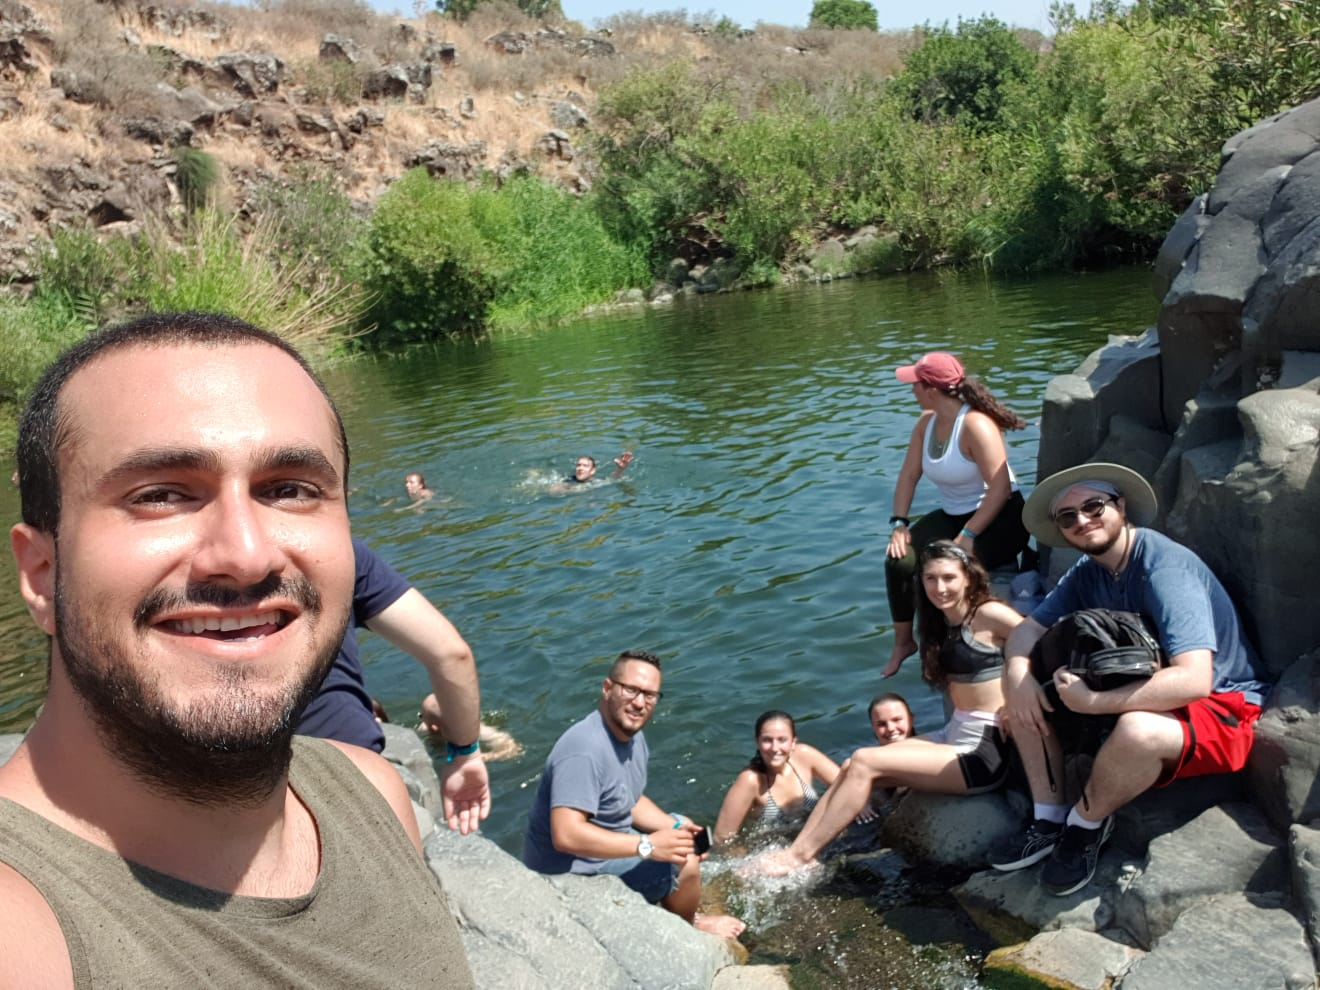
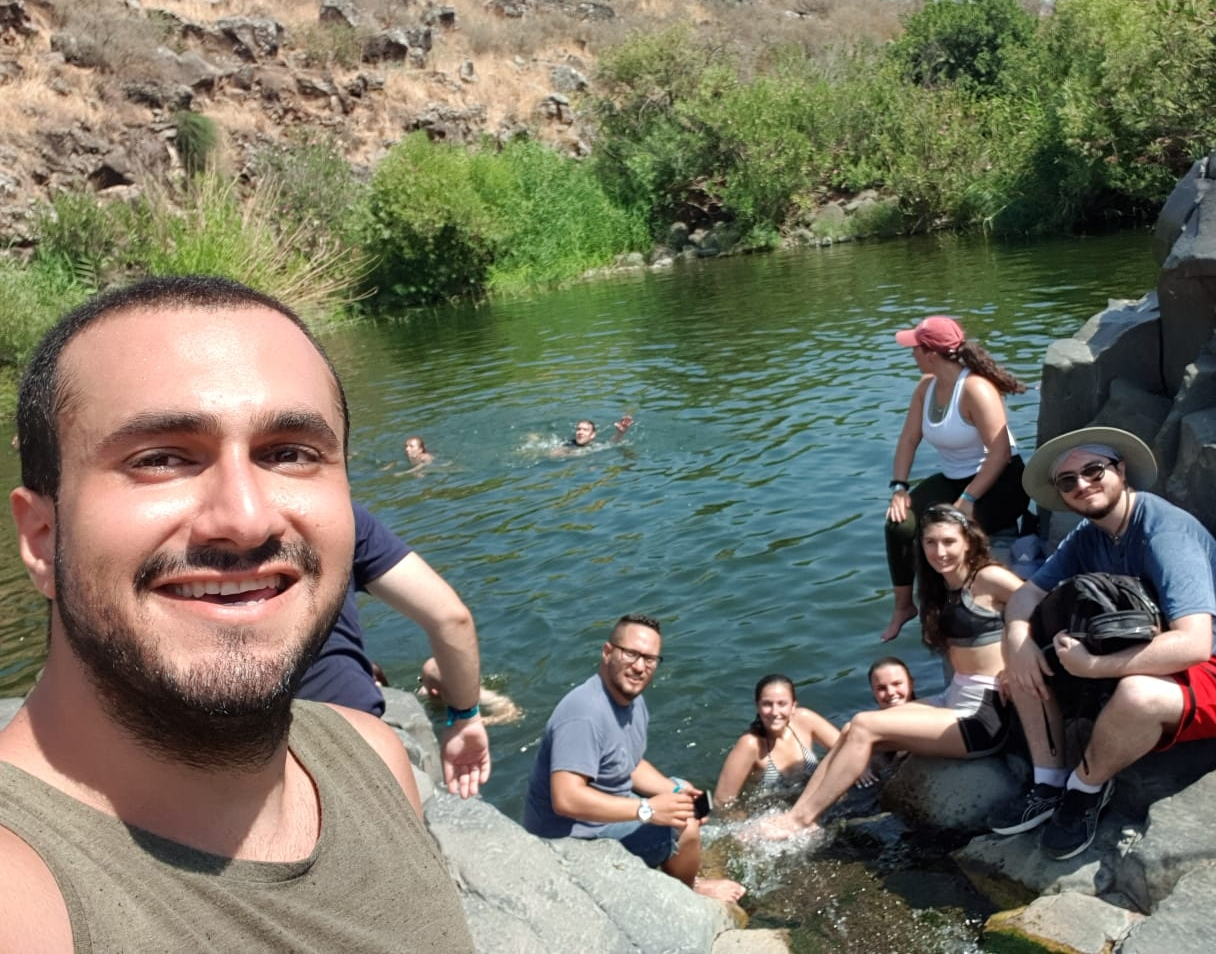
Second update of the Birthright trip

diff --git a/content/thoughts/20190817.html b/content/thoughts/20190817.html
@@ -66,10 +66,14 @@
             recollection of the trip and its highlights.
         </p>
 
+        <p style="text-align:center;">
+            <img class="center" src="20190817/taglit.jpg">
+        </p>
+
         <h2>Day 1 - Afik Kibbutz Orchan and Shehecheyanu Ceremony</h2>
 
         <p>
-            <img class="photo" src="20190817/itamar_bouton.jpg" align="left" width="20%">
+            <img class="photo" src="20190817/itamar_bouton.jpg" align="left" style="width: 15%">
             We were greeted at the airport by our Israeli participants and our Israeli guide,
             <a href="http://boutontour.com/">Itamar Bouton</a>, who would prove himself to
             be a capable, humorous leader over the course of the trip. He gave three
@@ -83,7 +87,7 @@
             Wikipedia mentions that the kibbutz is considered an illegal settlement under
             international law. I was unable to learn when the kibbutz was established, but the
             <a href="https://www.jewishvirtuallibrary.org/history-and-overview-of-the-golan-heights">Jewish Virtual Library</a>
-            suggests that kibbutzim predated Israeli control of the Golan Heights, although no
+            suggests that kibbutzim in the Golan Heights predate Israeli control, although no
             kibbutz was in Afik prior to Israel capturing the Golan Heights during the Six Day War.
         </p>
 
@@ -97,13 +101,20 @@
             at all. There must be a better way." Decisions are made communally and (at least
             historically) resources and chores were shared. The captial necessary to purchase land
             came in the form of small donations from Jews across Europe.
-            <img class="photo" src="20190817/day01_kibbutz_afik.jpg" width="100%">
         </p>
 
+        <p style="text-align:center;">
+            <img class="center" src="20190817/day01_kibbutz_afik.jpg" width="100%">
+        </p>
+
+        <!--<p>-->
+            <!--<img class="photo" src="20190817/benw_as_israel.jpg" width="100%">-->
+        <!--</p>-->
+
         <p>
-            The final activity was the <a href="https://en.wikipedia.org/wiki/Shehecheyanu">Shehecheyanu</a>
-            sundown, a Jewish prayer used to
-            <img class="photo" src="20190817/day01_shehecheyanu.jpg" align="right" width="20%">
+            The final activity was the <a href="https://en.wikipedia.org/wiki/Shehecheyanu">Shehecheyanu</a>,
+            a Jewish prayer used to
+            <!--<img class="photo" src="20190817/day01_shehecheyanu.jpg" align="right" width="20%">-->
         </p>
 
         <h2>Day 2 - Hiking, Golan Heights and Rafting</h2>
@@ -129,16 +140,31 @@
         </p>
 
         <p>
-            <img class="photo" src="20190817/day02_hike_water_hole.jpg" align="left" width="100%">
-            <img class="photo" src="20190817/day02_hike.jpg" align="left" width="100%">
+            <img class="photo" src="20190817/day02_hike_water_hole.jpg" align="right" style="width: 25%">
+            <img class="photo" src="20190817/day02_hike.jpg" align="right" style="width: 25%">
+            To start the day, we went for a nice hike. Halfway through the hike, we encountered a
+            delightful pond that we went swimming in. Our wet clothes proved to be a good defense
+            against the growing heat of the day. As we passed over all kinds of interesting rocks,
+            we learned that the Golan Heights were <a href="https://en.wikipedia.org/wiki/Golan_Heights#Geology">formerly seismically active</a>.
+            Consequentially, the mountains that were formed act as a watershed that funnels
+            drinkable rainwater into the Sea of Galilee, where it can be used for drinking and
+            agriculture. This clarified why Israel is so determined to hold onto the Golan
+            Heights; in a war, Syria could cut off roughly 10% of Israel's water supply, and
+            indeed, the <a href="https://en.wikipedia.org/wiki/Headwater_Diversion_Plan_(Jordan_River)">Arab League</a>
+            tried to do exactly that leading up to the Six Day War.
+        </p><br>
+
+        <p style="text-align:center;">
+            <img class="center" src="20190817/day02_golan_border.jpg" width="100%">
         </p>
 
         <p>
-            <img class="photo" src="20190817/day02_golan_border.jpg" width="100%">
-        </p>
-
-        <p>
-            <img class="photo" src="20190817/day02_rafting.jpg" width="100%">
+            <img class="photo" src="20190817/day02_rafting.jpg" align="left" style="width: 25%">
+            rainwater into the Sea of Galilee, where it can be used for drinking and
+            agriculture. This clarified why Israel is so determined to hold onto the Golan
+            Heights; in a war, Syria could cut off roughly 10% of Israel's water supply, and
+            indeed, the <a href="https://en.wikipedia.org/wiki/Headwater_Diversion_Plan_(Jordan_River)">Arab League</a>
+            did exactly that leading up to the Six Day War.
         </p>
 
         <h2>Day 3 - Tzfat and the Kabbalah</h2>
@@ -184,19 +210,104 @@
             <img class="photo" src="20190817/day05_ghost_town.jpg" width="100%">
         </p>
 
+        <p>
+            <img class="photo" src="20190817/day05_nate_helps.jpg" width="100%">
+        </p>
+
+        <p>
+            <img class="photo" src="20190817/day05_hebrew_uni_view.jpg" width="100%">
+        </p>
+
+        <p>
+            <img class="photo" src="20190817/day05_fried_chicken.jpg" width="100%">
+        </p>
+
+        <p>
+            <img class="photo" src="20190817/day05_ein_karem_st_john.jpg" width="100%">
+        </p>
+
         <h2>Day 6 - Yad Vashem and Tel Aviv</h2>
 
-        <h2>Day 7 - Bedouin</h2>
+        <p>
+            <img class="photo" src="20190817/day06_an_inch.jpg" width="20%" align="left">
+            <a href="https://www.yadvashem.org/">Yad Vashem</a> is Israel's Holocaust Memorial.
+            Photos aren't permitted inside, so I have very few. I'll share one photo that I snuck
+            because the story touched me. As the picture reads, <a href="https://en.wikipedia.org/wiki/Roza_Robota">Roza Robota</a>
+            was interned at Auschwitz where she smuggled explosives to resistance fighters
+            who used her explosives to destroy one of the crematoriums. While her courage was
+            commendable, the reason her memory stayed with me was that when she was captured,
+            she refused to name her co-conspirators, even under torture. As I
+            stood in the memorial, I imagined that her story was the inspiration for Evey's
+            torture scene in V for Vendetta, a scene in which a woman condemned to die in a concentration
+            camp realizes that her integrity matters more to her than her life. I can't do the
+            scene justice in words, but it's one of the most moving film scenes I've seen:
+        </p>
+
+        <p>
+            <iframe width="560" height="315" src="https://www.youtube.com/embed/k2W0-z8EnaM?start=4" frameborder="0" allow="accelerometer; autoplay; encrypted-media; gyroscope; picture-in-picture" allowfullscreen align="middle"></iframe>
+        </p>
+
+        <p></p>
+
+        <h2>Day 7 - Gentrification in Tel Aviv and Bedouins in the Negev</h2>
+
+        <p>
+            <img class="photo" src="20190817/day07_gentrification.jpg" width="100%">
+        </p>
+
+        <p>
+            <img class="photo" src="20190817/day07_insta.jpg" width="100%">
+        </p>
+
+        <p>
+            <img class="photo" src="20190817/day07_camel_riding.jpg" width="100%">
+        </p>
+
+        <p>
+            <img class="photo" src="20190817/day07_bedouin_tent.jpg" width="100%">
+        </p>
+
+        <p>
+            <img class="photo" src="20190817/day07_night_run.jpg" width="100%">
+        </p>
 
         <h2>Day 8 - Masada and Ben Gurion Tomb</h2>
 
+        <p>
+            <img class="photo" src="20190817/day08_masada_ruins.jpg" width="100%">
+        </p>
+
+        <p>
+            <img class="photo" src="20190817/day08_dead_sea.jpg" width="100%">
+        </p>
+
+        <p>
+            <img class="photo" src="20190817/day08_ben_gurion_grave.jpg" width="100%">
+        </p>
+
         <h2>Day 9 - Ben Gurion National Park and Mount Herzl</h2>
+
+        <p>
+            <img class="photo" src="20190817/day09_national_park.jpg" width="100%">
+        </p>
+
+        <p>
+            <img class="photo" src="20190817/day09_mt_herzl_1.jpg" width="100%">
+        </p>
+
+        <p>
+            <img class="photo" src="20190817/day09_mt_herzl_3.jpg" width="100%">
+        </p>
+
+
 
         <h2>Day 10 - Farewells</h2>
 
         <p>
-
+            <img class="photo" src="20190817/day10_book_rip.jpg" width="100%">
         </p>
+
+
 
     </section>
 </div>

diff --git a/stylesheets/stylesheet.css b/stylesheets/stylesheet.css
@@ -141,7 +141,7 @@ strong {
 
 img {
   position: relative;
-  margin: 0 auto;
+  margin: 0;
   max-width: 739px;
   padding: 5px;
   /*margin: 10px 0 10px 0;*/
@@ -288,7 +288,7 @@ Full-Width Styles
 .inner {
   position: relative;
   width: 80%;
-  padding: 20px 10px;
+  padding: 20px 20px;
   margin: 0 auto;
 }
 
@@ -417,11 +417,11 @@ Full-Width Styles
 /*}*/
 
 img.photo {
-  height: auto;
+  width: auto;
   display:block;
-  margin-left:0px;
-  margin-right:50px;
-  margin-bottom:50px
+  margin-left:10px;
+  margin-right:10px;
+  margin-bottom:50px;
 }
 
 .zip_download_link {
